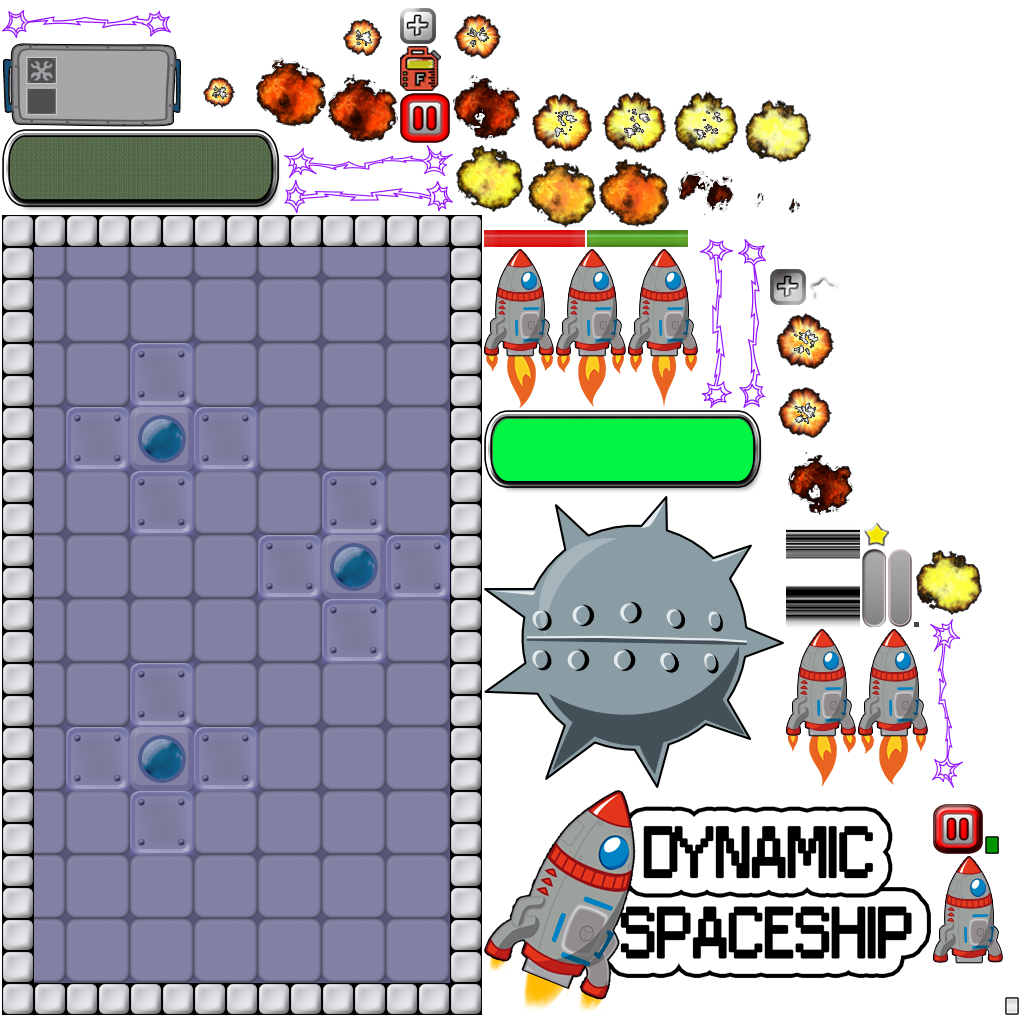
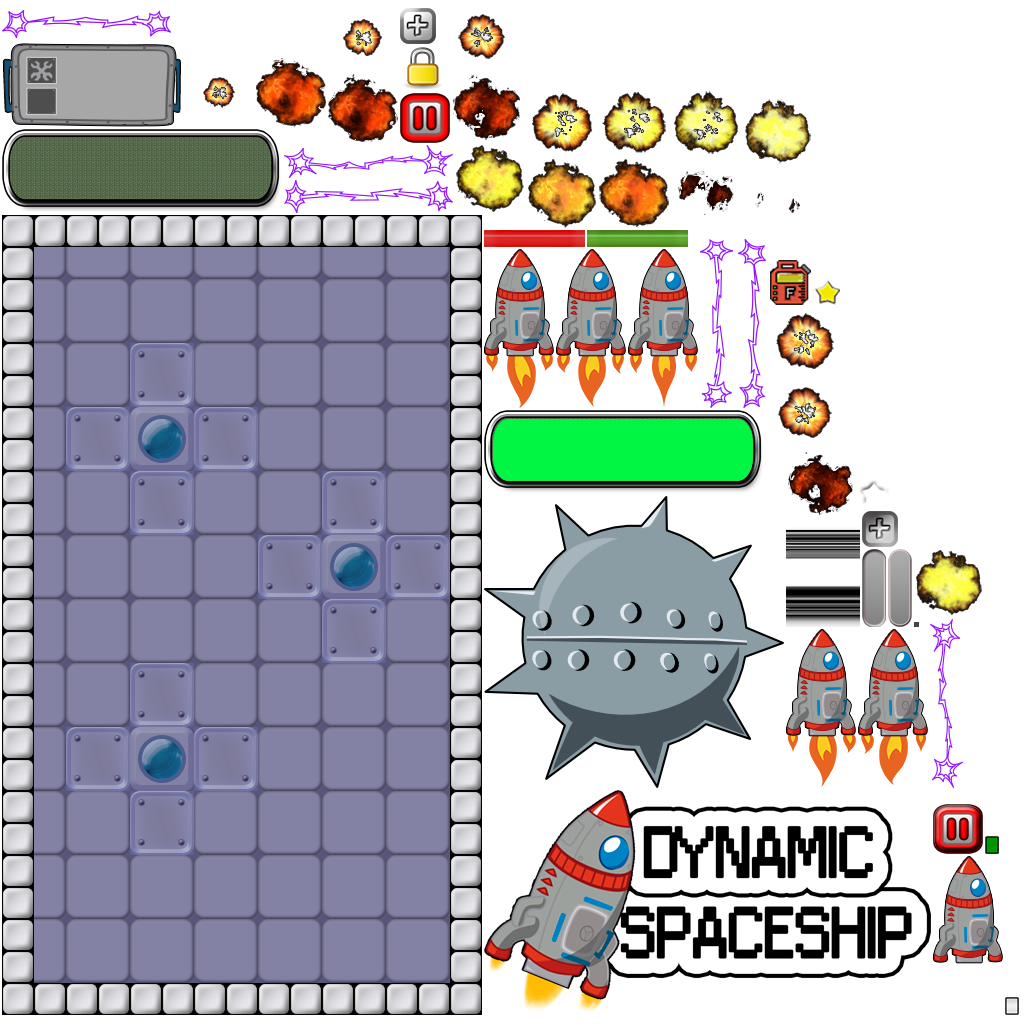
Update mapa, lockedScreens,Etc

Changed region(s): [[0.375, 0.0, 0.5, 0.0938], [0.75, 0.25, 0.8125, 0.3125], [0.8438, 0.4688, 0.875, 0.5312]]

diff --git a/lander/src/com/tiarsoft/lander/dialogs/VentanaCompleted.java b/lander/src/com/tiarsoft/lander/dialogs/VentanaCompleted.java
@@ -36,17 +36,15 @@ public class VentanaCompleted extends Window {
 	Label lblLevelActual;
 	Image[] estrellas;
 
-	ImageButton btMenu, btTryAgain;
-	final int levelActual;
+	ImageButton btMenu, btTryAgain, btNextLevel;
 
 	public VentanaCompleted(final MainLander game, final WorldGame oWorld, final int levelActual) {
 		super("", Assets.styleDialogGameOver);
 		this.game = game;
 		this.oWorld = oWorld;
 		this.setMovable(false);
-		this.levelActual = levelActual;
 
-		Label paused = new Label("Gameover", Assets.styleLabelMediana);
+		Label paused = new Label("Level Completed", Assets.styleLabelMediana);
 		lblLevelActual = new Label("Level " + (levelActual + 1), Assets.styleLabelMediana);
 
 		estrellas = new Image[3];
@@ -64,7 +62,7 @@ public class VentanaCompleted extends Window {
 		btMenu.addListener(new ClickListener() {
 			@Override
 			public void clicked(InputEvent event, float x, float y) {
-				hide(LevelScreen.class);
+				hide(LevelScreen.class, 0);
 			}
 		});
 
@@ -72,27 +70,36 @@ public class VentanaCompleted extends Window {
 		btTryAgain.addListener(new ClickListener() {
 			@Override
 			public void clicked(InputEvent event, float x, float y) {
-				hide(GameScreen.class);
+				hide(GameScreen.class, levelActual);
+			}
+		});
+
+		btNextLevel = new ImageButton(Assets.styleImageButtonPause);
+		btNextLevel.addListener(new ClickListener() {
+			@Override
+			public void clicked(InputEvent event, float x, float y) {
+				hide(GameScreen.class, levelActual + 1);
 			}
 		});
 
 		this.row().padTop(30);
-		this.add(paused).colspan(2);
+		this.add(paused).colspan(3);
 
 		this.row().padTop(30);
-		this.add(lblLevelActual).colspan(2);
+		this.add(lblLevelActual).colspan(3);
 
 		this.row().padTop(30);
-		this.add(starTable).colspan(2);
+		this.add(starTable).colspan(3);
 
 		this.row().padTop(30).expandX();
 		this.add(btMenu);
-
 		this.add(btTryAgain);
+		this.add(btNextLevel);
 
 		this.row().expandX();
 		this.add(new Label("Menu", Assets.styleLabelMediana));
 		this.add(new Label("Try Again", Assets.styleLabelMediana));
+		this.add(new Label("Next Level", Assets.styleLabelMediana));
 
 	}
 
@@ -124,12 +131,12 @@ public class VentanaCompleted extends Window {
 	}
 
 	public void resumeGame() {
-		hide(null);
+		hide(null, 0);
 		if (game.getScreen() instanceof GameScreen)
 			GameScreen.state = GameScreen.STATE_RUNNING;
 	}
 
-	public void hide(final Class<?> newScreen) {
+	public void hide(final Class<?> newScreen, final int level) {
 		if (fadeDuration > 0) {
 			addCaptureListener(ignoreTouchDown);
 
@@ -144,7 +151,7 @@ public class VentanaCompleted extends Window {
 						game.setScreen(new LevelScreen(game));
 					}
 					else if (newScreen == GameScreen.class) {
-						game.setScreen(new GameScreen(game, levelActual));
+						game.setScreen(new GameScreen(game, level));
 					}
 				}
 			});

diff --git a/lander/src/com/tiarsoft/lander/screens/LevelScreen.java b/lander/src/com/tiarsoft/lander/screens/LevelScreen.java
@@ -1,9 +1,11 @@
 package com.tiarsoft.lander.screens;
 
+import com.badlogic.gdx.Gdx;
 import com.badlogic.gdx.Input.Keys;
 import com.badlogic.gdx.scenes.scene2d.InputEvent;
 import com.badlogic.gdx.scenes.scene2d.ui.Button;
 import com.badlogic.gdx.scenes.scene2d.ui.Image;
+import com.badlogic.gdx.scenes.scene2d.ui.Label;
 import com.badlogic.gdx.scenes.scene2d.ui.Table;
 import com.badlogic.gdx.scenes.scene2d.ui.TextButton;
 import com.badlogic.gdx.scenes.scene2d.utils.ClickListener;
@@ -28,7 +30,7 @@ public class LevelScreen extends Screens {
 		int level = 0;
 		for (int l = 0; l < 10; l++) {// Paginas
 
-			Table levels = new Table().padBottom(100);
+			Table levels = new Table().padBottom(100);// Modificar para el margen
 			levels.defaults().pad(20, 20, 20, 20);
 			for (int y = 0; y < 4; y++) {// Filas
 				levels.row();
@@ -47,11 +49,17 @@ public class LevelScreen extends Screens {
 
 	public Button getLevelButton(final int level) {
 
-		TextButton button = new TextButton("" + (level + 1), Assets.styleTextButtonLevels);
+		final TextButton button = new TextButton("" + (level + 1), Assets.styleTextButtonLevels);
 
-		int stars = Settings.getStarsFromLevel(level);
+		int stars = Settings.arrEstrellasMundo[level];
 
-		// button.stack(new Image(Assets.bomba));
+		if (Settings.arrIsWorldLocked[level]) {
+
+			Label nivel = button.getLabel();
+			nivel.remove();
+			button.stack(new Image(Assets.candado), nivel);
+			button.setDisabled(true);
+		}
 
 		Table starTable = new Table();
 		starTable.defaults().pad(5);
@@ -72,7 +80,11 @@ public class LevelScreen extends Screens {
 		button.addListener(new ClickListener() {
 			@Override
 			public void clicked(InputEvent event, float x, float y) {
-				game.setScreen(new GameScreen(game, level));
+				if (button.isDisabled()) {
+					Gdx.app.log("Locked", "El mundo " + (level + 1) + "esta bloqueado");
+				}
+				else
+					game.setScreen(new GameScreen(game, level));
 			}
 		});
 
@@ -94,8 +106,6 @@ public class LevelScreen extends Screens {
 
 	@Override
 	public void update(float delta) {
-		// TODO Auto-generated method stub
-
 	}
 
 	@Override

diff --git a/lander/src/com/tiarsoft/lander/Settings.java b/lander/src/com/tiarsoft/lander/Settings.java
@@ -14,14 +14,20 @@ public class Settings {
 	private final static Preferences pref = Gdx.app.getPreferences("com.tiar.aaa.aaa.aa");
 
 	public static int[] arrEstrellasMundo;// Cada posicion es un mundo
+	public static boolean[] arrIsWorldLocked;
 
 	public static void load(int numMapas) {
 		arrEstrellasMundo = new int[numMapas];
-
+		arrIsWorldLocked = new boolean[numMapas];
 		pref.clear();
 		pref.flush();
 		for (int i = 0; i < numMapas; i++) {
 			arrEstrellasMundo[i] = pref.getInteger("arrEstrellasMundo" + i, 0);
+
+			if (i == 0)
+				arrIsWorldLocked[0] = false;
+			else
+				arrIsWorldLocked[i] = pref.getBoolean("arrIsWorldLocked" + i, true);
 		}
 
 		// Upgrades
@@ -39,6 +45,7 @@ public class Settings {
 
 		for (int i = 0; i < arrEstrellasMundo.length; i++) {
 			pref.putInteger("arrEstrellasMundo" + i, arrEstrellasMundo[i]);
+			pref.putBoolean("arrIsWorldLocked" + i, arrIsWorldLocked[i]);
 		}
 
 		// Upgrades
@@ -53,19 +60,20 @@ public class Settings {
 		pref.flush();
 	}
 
-	public static int getStarsFromLevel(int level) {
-
-		if (level >= arrEstrellasMundo.length)
-			return 0;
-		return arrEstrellasMundo[level];
-	}
-
+	/**
+	 * Guarda el numero de estrellas del mundo que se completo y desbloque el siguiente mundo
+	 */
 	public static void setStarsFromLevel(int level, int numStars) {
 		int startActuales = arrEstrellasMundo[level];
 
 		if (startActuales < numStars) {
 			arrEstrellasMundo[level] = numStars;
-			save();
 		}
+
+		if (arrIsWorldLocked.length >= level + 1)
+			arrIsWorldLocked[level + 1] = false;
+
+		save();
+
 	}
 }

diff --git a/lander/src/com/tiarsoft/lander/game/GameScreen.java b/lander/src/com/tiarsoft/lander/game/GameScreen.java
@@ -10,6 +10,7 @@ import com.badlogic.gdx.scenes.scene2d.utils.ClickListener;
 import com.tiarsoft.lander.Assets;
 import com.tiarsoft.lander.MainLander;
 import com.tiarsoft.lander.Settings;
+import com.tiarsoft.lander.dialogs.VentanaCompleted;
 import com.tiarsoft.lander.dialogs.VentanaGameOver;
 import com.tiarsoft.lander.dialogs.VentanaPaused;
 import com.tiarsoft.lander.game.objetos.LifeBar;
@@ -36,6 +37,7 @@ public class GameScreen extends Screens {
 	ImageButton btPause;
 	VentanaGameOver dialogGameover;
 	VentanaPaused dialogPaused;
+	VentanaCompleted dialogNextLevel;
 
 	public GameScreen(MainLander game, int level) {
 		super(game);
@@ -46,6 +48,7 @@ public class GameScreen extends Screens {
 
 		dialogGameover = new VentanaGameOver(game, oWorld, level);
 		dialogPaused = new VentanaPaused(game, oWorld, level);
+		dialogNextLevel = new VentanaCompleted(game, oWorld, level);
 
 		// Marcador Stats
 		marcoStats = new Table();
@@ -117,8 +120,7 @@ public class GameScreen extends Screens {
 			setGameover();
 		}
 		else if (oWorld.state == WorldGame.STATE_NEXT_LEVEL) {
-			Settings.setStarsFromLevel(level, oWorld.estrellasTomadas);
-			setGameover();
+			setNextLevel();
 		}
 
 	}
@@ -151,6 +153,12 @@ public class GameScreen extends Screens {
 		state = STATE_GAME_OVER;
 		dialogGameover.show(stage);
 
+	}
+
+	private void setNextLevel() {
+		state = STATE_GAME_OVER;
+		Settings.setStarsFromLevel(level, oWorld.estrellasTomadas);
+		dialogNextLevel.show(stage);
 	}
 
 	@Override

diff --git a/lander/src/com/tiarsoft/lander/Assets.java b/lander/src/com/tiarsoft/lander/Assets.java
@@ -33,6 +33,7 @@ public class Assets {
 
 	public static AtlasRegion fondo;
 
+	public static AtlasRegion candado;
 	public static AtlasRegion gas;
 	public static AtlasRegion star;
 	public static AtlasRegion starOff;
@@ -152,6 +153,7 @@ public class Assets {
 		star = atlas.findRegion("star");
 		starOff = atlas.findRegion("starOff");
 		bomba = atlas.findRegion("bomba");
+		candado = atlas.findRegion("candado");
 
 		upgradeOn = atlas.findRegion("upgradeOn");
 		upgradeOff = atlas.findRegion("upgradeOff");
@@ -166,7 +168,7 @@ public class Assets {
 		// mundos.put(2, "data/mundos/mundo03.tmx");
 		// mundos.put(3, "data/mundos/mundo04.tmx");
 
-		Settings.load(10);
+		Settings.load(500);
 
 	}
 

diff --git a/lander/src/com/tiarsoft/lander/MainLander.java b/lander/src/com/tiarsoft/lander/MainLander.java
@@ -3,7 +3,6 @@ package com.tiarsoft.lander;
 import com.badlogic.gdx.Game;
 import com.badlogic.gdx.graphics.g2d.SpriteBatch;
 import com.badlogic.gdx.scenes.scene2d.Stage;
-import com.tiarsoft.lander.game.GameScreen;
 import com.tiarsoft.lander.screens.MainMenuScreen;
 
 public class MainLander extends Game {
